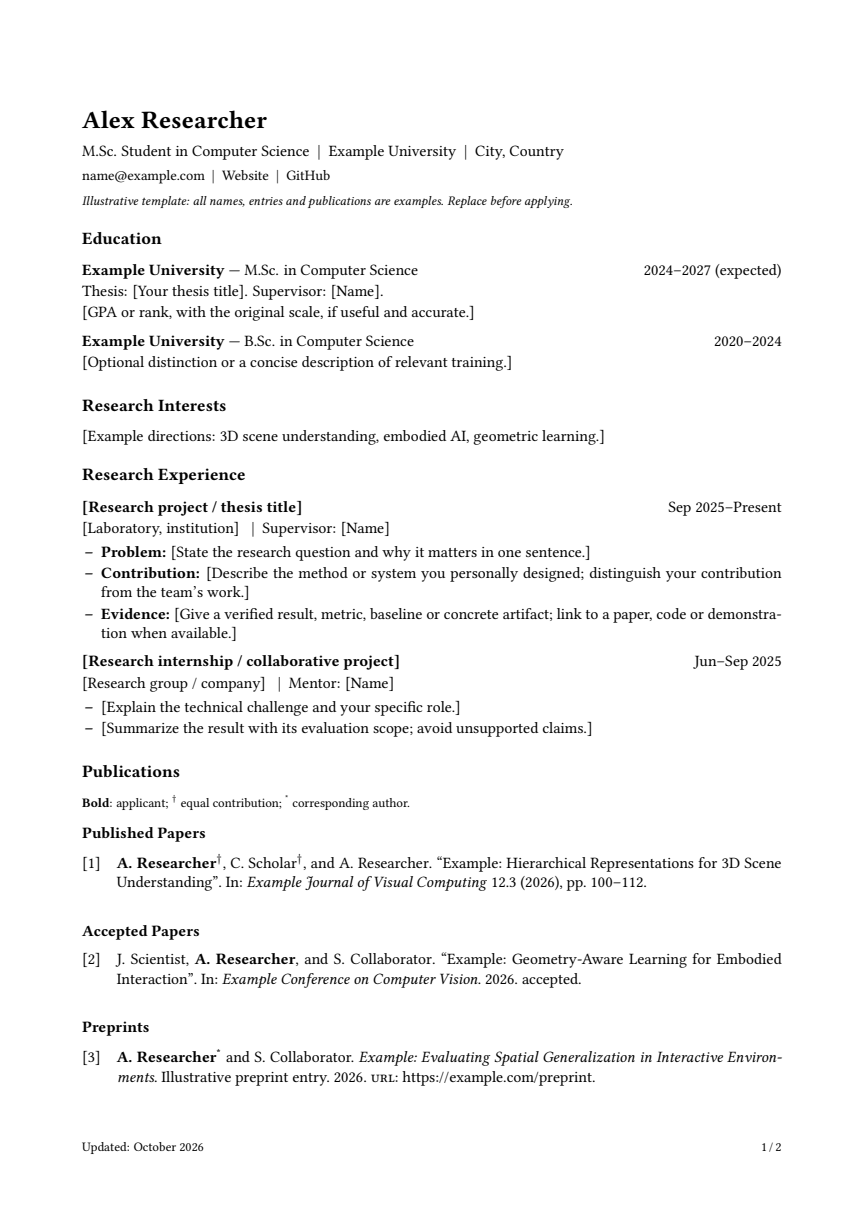
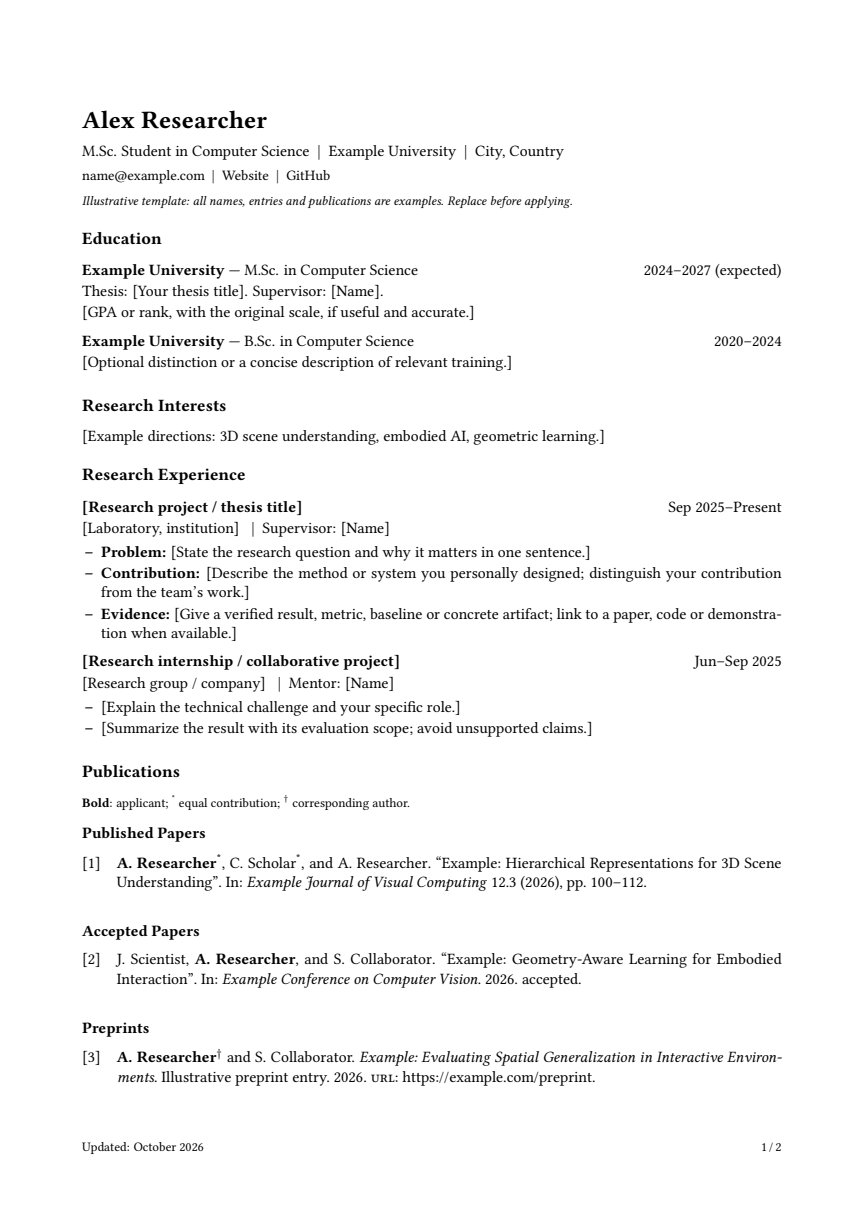
Swap equal-contribution and corresponding-author markers

Changed region(s): [[0.2188, 0.6536, 0.8125, 0.7158], [0.25, 0.8403, 0.625, 0.8714], [0.6562, 0.8403, 0.7188, 0.8714]]

diff --git a/sections/publications.tex b/sections/publications.tex
@@ -1,7 +1,7 @@
 \cvsection{Publications}
 {\footnotesize\textbf{Bold}: applicant;
- \textsuperscript{\ensuremath{\dagger}} equal contribution;
- \textsuperscript{*} corresponding author.\par}
+ \equalcontrib{} equal contribution;
+ \corresponding{} corresponding author.\par}
 % All entries are read from one database; 'selected' is independent of status.
 \nocite{*}
 \cvprintpapers{Published Papers}{published}

diff --git a/README.md b/README.md
@@ -9,7 +9,7 @@ A minimal academic CV template for Computer Science graduate students applying t
 - A4 paper, 11 pt text, a black-and-white single-column layout, and clickable contact and project links.
 - One `.bib` database for published papers, accepted papers, preprints and manuscripts under review, displayed in separate groups.
 - Selected application and full master versions share the same source files, with consistent typography and natural pagination as content changes.
-- Author-name highlighting, equal-contribution and corresponding-author markers, with explicit overrides for ambiguous names.
+- Author-name highlighting, equal-contribution (`*`) and corresponding-author (`†`) markers, with explicit overrides for ambiguous names.
 - Separate files for personal details, experience sections and publications, plus a bibliography data checker.
 
 ## Quick Start

diff --git a/README-中文.md b/README-中文.md
@@ -81,7 +81,7 @@ author+an = {1=me,cofirst; 2=notme; 3=corresponding},
 ```
 
 - 作者从 1 开始编号；`me` 强制本人加粗，`notme` 强制普通字体，且 `notme` 优先。
-- `cofirst` 显示共同一作符号；`corresponding` 显示通讯作者符号。
+- `cofirst` 显示共同一作符号 `*`；`corresponding` 显示通讯作者符号 `†`。
 - 一个作者有多个标记时，用逗号连接在同一项内。
 - **修改作者顺序后同步修改位置编号。** 自动识别不能凭缩写判断现实身份。
 
